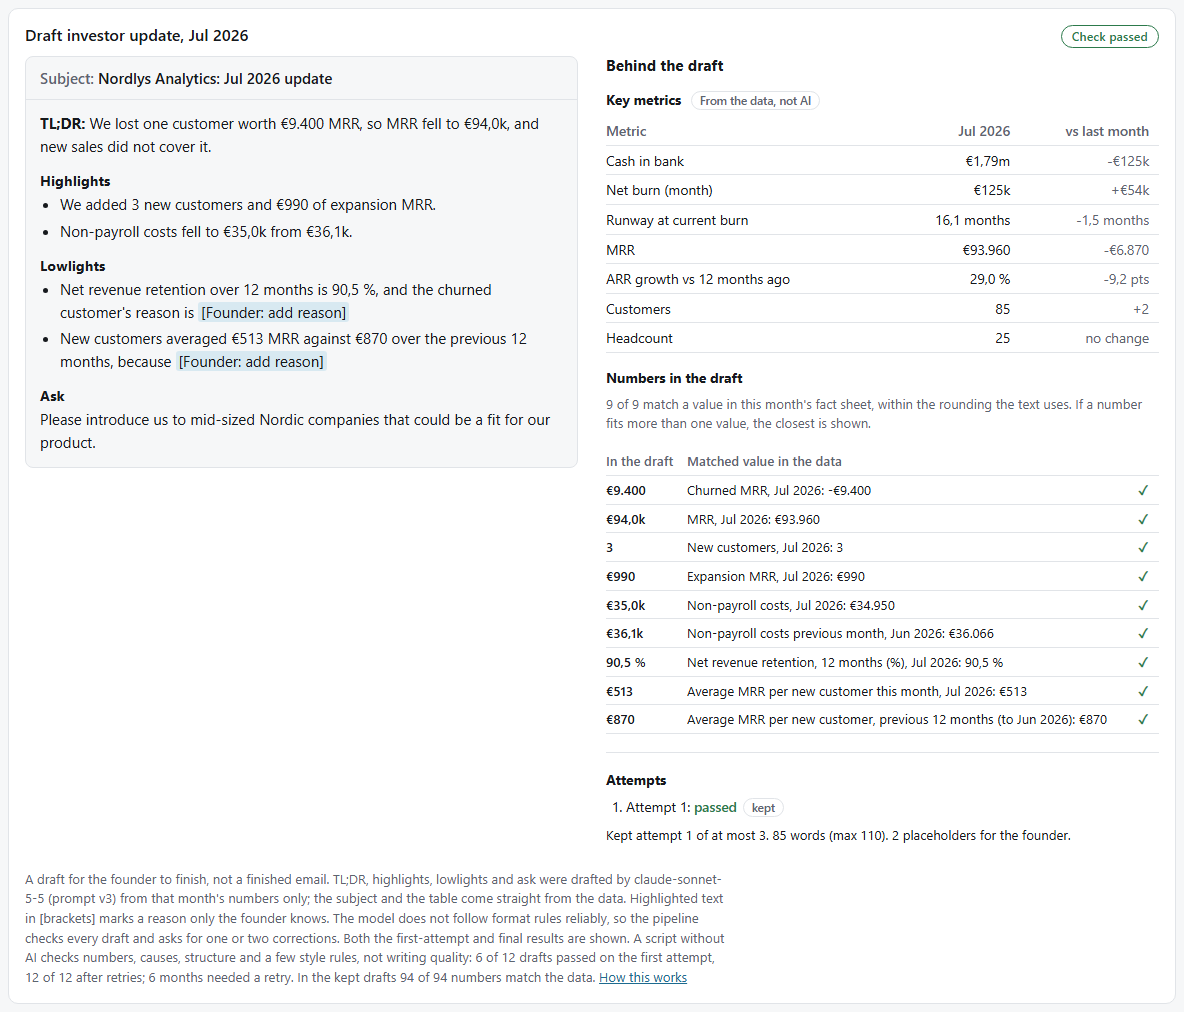
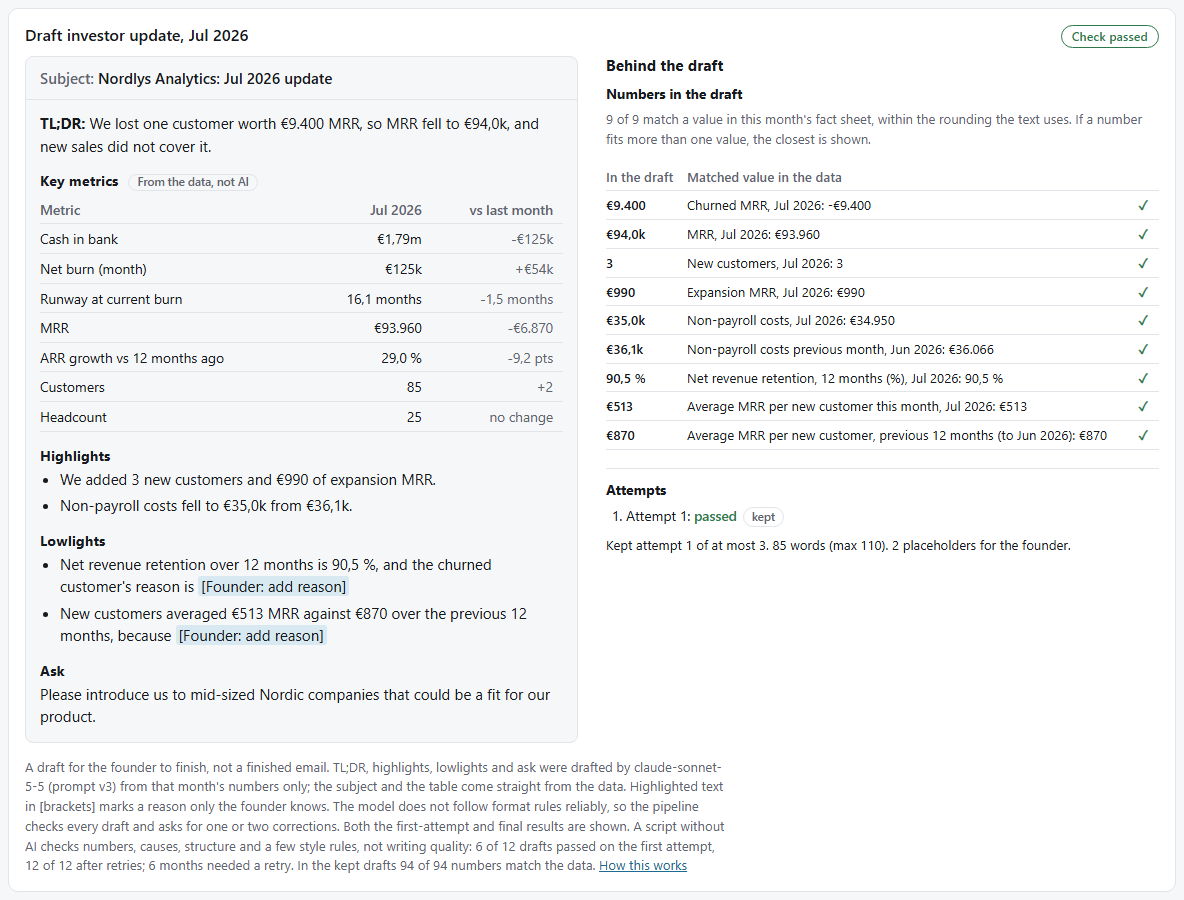
Key metrics table moved into the email draft, between TL;DR and Highlights

diff --git a/web/components/UpdateCard.tsx b/web/components/UpdateCard.tsx
@@ -1,8 +1,8 @@
 // Draft investor update for the selected month, in two columns (stacked below 1024 px):
-//   Left, styled as an email: subject (not AI), TL;DR, highlights, lowlights and ask (AI).
-//   Right, "Behind the draft": the key metrics table (not AI, from sql/09_update_metrics.sql),
-//   each number in the draft with the fact it matched (scripts/check_updates.py), and every
-//   attempt with its check result (data/ai/update_attempts.csv).
+//   Left, styled as an email: subject (not AI), TL;DR (AI), key metrics table (not AI, from
+//   sql/09_update_metrics.sql), highlights, lowlights and ask (AI).
+//   Right, "Behind the draft": each number in the draft with the fact it matched
+//   (scripts/check_updates.py), and every attempt with its check result (data/ai/update_attempts.csv).
 // Text in [square brackets] is a placeholder the AI left for the founder, shown highlighted.
 import { attemptSummary, data, RETRY_SENTENCE, type NumberMatch, type UpdateMetrics } from "@/lib/data";
 import { dec, eur, eurShort, monthLabel, pct } from "@/lib/format";
@@ -83,6 +83,8 @@ export default function UpdateCard({ month }: { month: string }) {
             <p className="subject"><span className="muted">Subject:</span> Nordlys Analytics: {monthLabel(month)} update</p>
             <div className="email-body">
               <p><strong>TL;DR:</strong> <WithPlaceholders text={update.tldr} /></p>
+              <h3>Key metrics <span className="tag">From the data, not AI</span></h3>
+              <MetricsTable r={metrics} />
               <h3>Highlights</h3>
               <ul>{lines(update.highlights).map((t, i) => <li key={i}><WithPlaceholders text={t} /></li>)}</ul>
               <h3>Lowlights</h3>
@@ -96,9 +98,6 @@ export default function UpdateCard({ month }: { month: string }) {
 
           <aside className="behind" aria-label="Behind the draft">
             <h3 className="behind-title">Behind the draft</h3>
-
-            <h4>Key metrics <span className="tag">From the data, not AI</span></h4>
-            <MetricsTable r={metrics} />
 
             <h4>Numbers in the draft</h4>
             {check && (

diff --git a/web/app/globals.css b/web/app/globals.css
@@ -98,6 +98,7 @@ button:hover, select:hover { border-color: var(--accent); }
 .email li { margin-bottom: 4px; }
 .behind-title { font-size: 0.95rem; margin: 0 0 4px; }
 .behind h4 { font-size: 0.86rem; margin: 14px 0 6px; }
+.behind h4:first-of-type { margin-top: 8px; }
 .tag { display: inline-block; font-size: 0.72rem; font-weight: 600; color: var(--muted); border: 1px solid var(--border); border-radius: 999px; padding: 0 8px; margin-left: 6px; }
 .metrics, .numbers { border-collapse: collapse; font-size: 0.86rem; margin: 4px 0 6px; width: 100%; }
 .metrics th, .metrics td, .numbers th, .numbers td { text-align: left; padding: 4px 10px 4px 0; border-bottom: 1px solid var(--border); vertical-align: top; }

diff --git a/docs/decisions.md b/docs/decisions.md
@@ -142,3 +142,4 @@ Every choice made during the unattended first build, as a list: what, why, and t
 105. **The investor update card has two columns from 1024 px**: the draft styled as an email on the left (subject, TL;DR, highlights, lowlights, ask), and "Behind the draft" on the right (key metrics table labelled "From the data, not AI", the numbers in the draft, the attempts). Below 1024 px the columns stack. The footnote about drafts for the founder stays under both. Before, the card used only the left half of wide screens. Alternative: tabs for draft and evidence, rejected because the point is to see both at once.
 106. **"Numbers in the draft" comes from the checker's own matching.** `check_numbers()` in `scripts/check_updates.py` takes an optional list and, for each number that matches, adds the fact it matched. When a number fits more than one fact within the rounding, the closest is recorded, and the card says so. The pass/fail logic, tolerances and skipped numbers are unchanged: `update_checks.csv` came out identical, 12 of 12 pass and 94 of 94 numbers match. The matches go to `data/check/update_number_matches.csv` (94 rows) and from there into the JSON. The period of each fact is read from its label ("previous month", "3 months earlier", "previous 12 months", "last 3 months"). Signs are ignored as in the check, so "-€1.520" in the Sep 2026 draft is shown against churned MRR of -€1.520. Alternative: a second matching function only for display, rejected because it could disagree with the check.
 107. **"Attempts" lists every row of `data/ai/update_attempts.csv` for the month** with pass or fail, the failed checks and a "kept" tag. Checked in headless Edge for Apr, Jul and Sep 2026 at 1280 and 375 px in light and dark: two columns at 1280, one at 375, no horizontal scroll, no console errors, and the number of ticks equals `numbers_matched` (7, 9, 6).
+108. **The key metrics table moved into the email**, between TL;DR and Highlights, where it would sit in a real investor update. It keeps its "From the data, not AI" tag. "Behind the draft" now holds only "Numbers in the draft" and "Attempts". Checked again for Apr, Jul and Sep 2026 at 1280 and 375 px in light and dark: two columns at 1280, one at 375, no horizontal scroll, no console errors.
